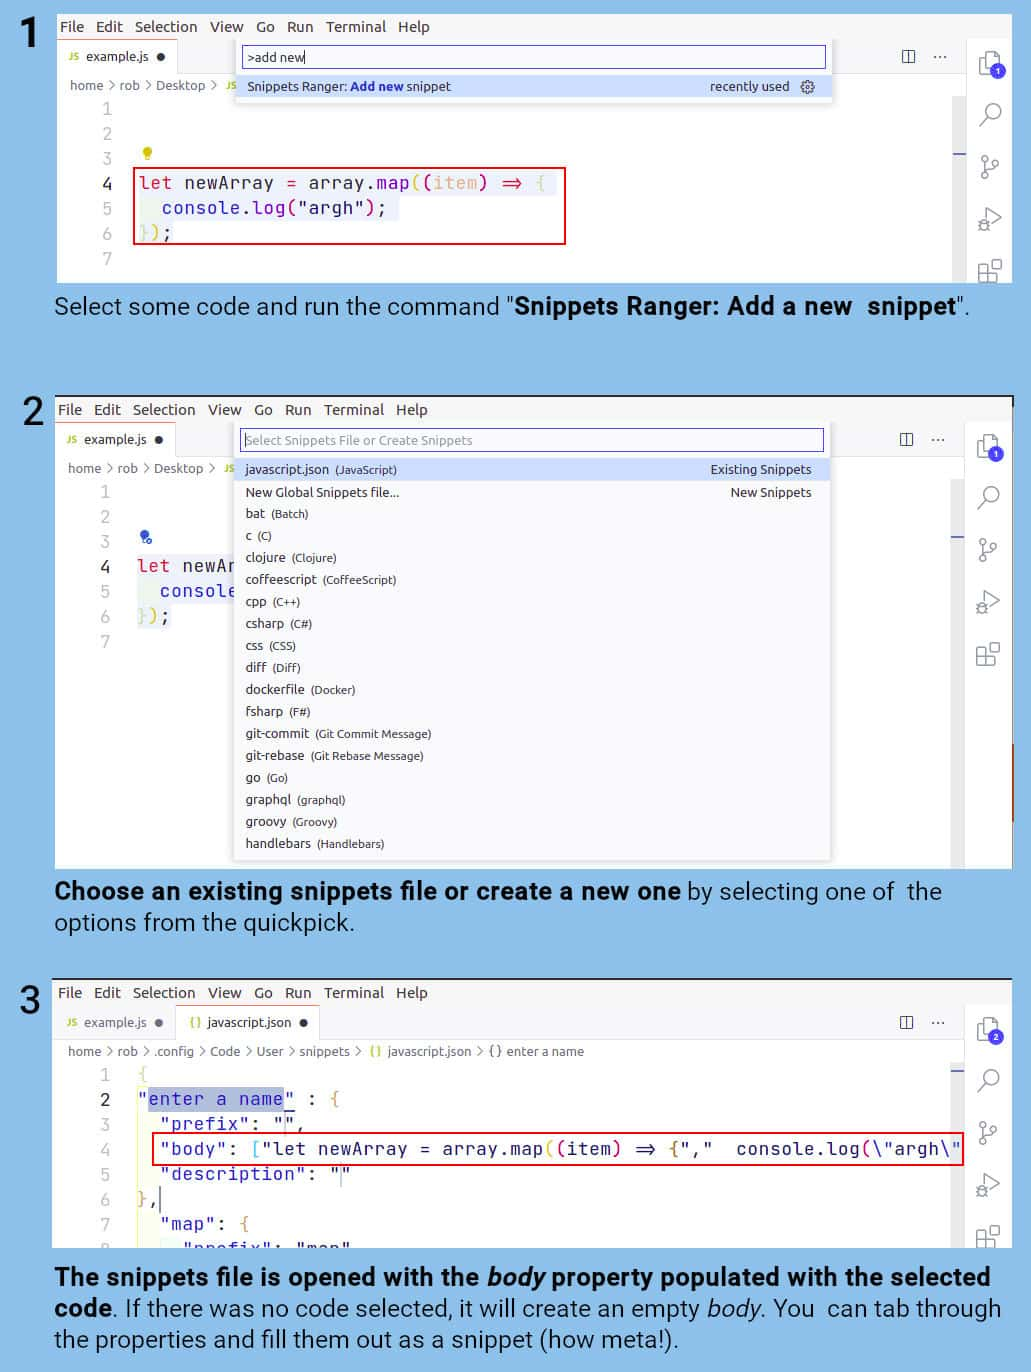
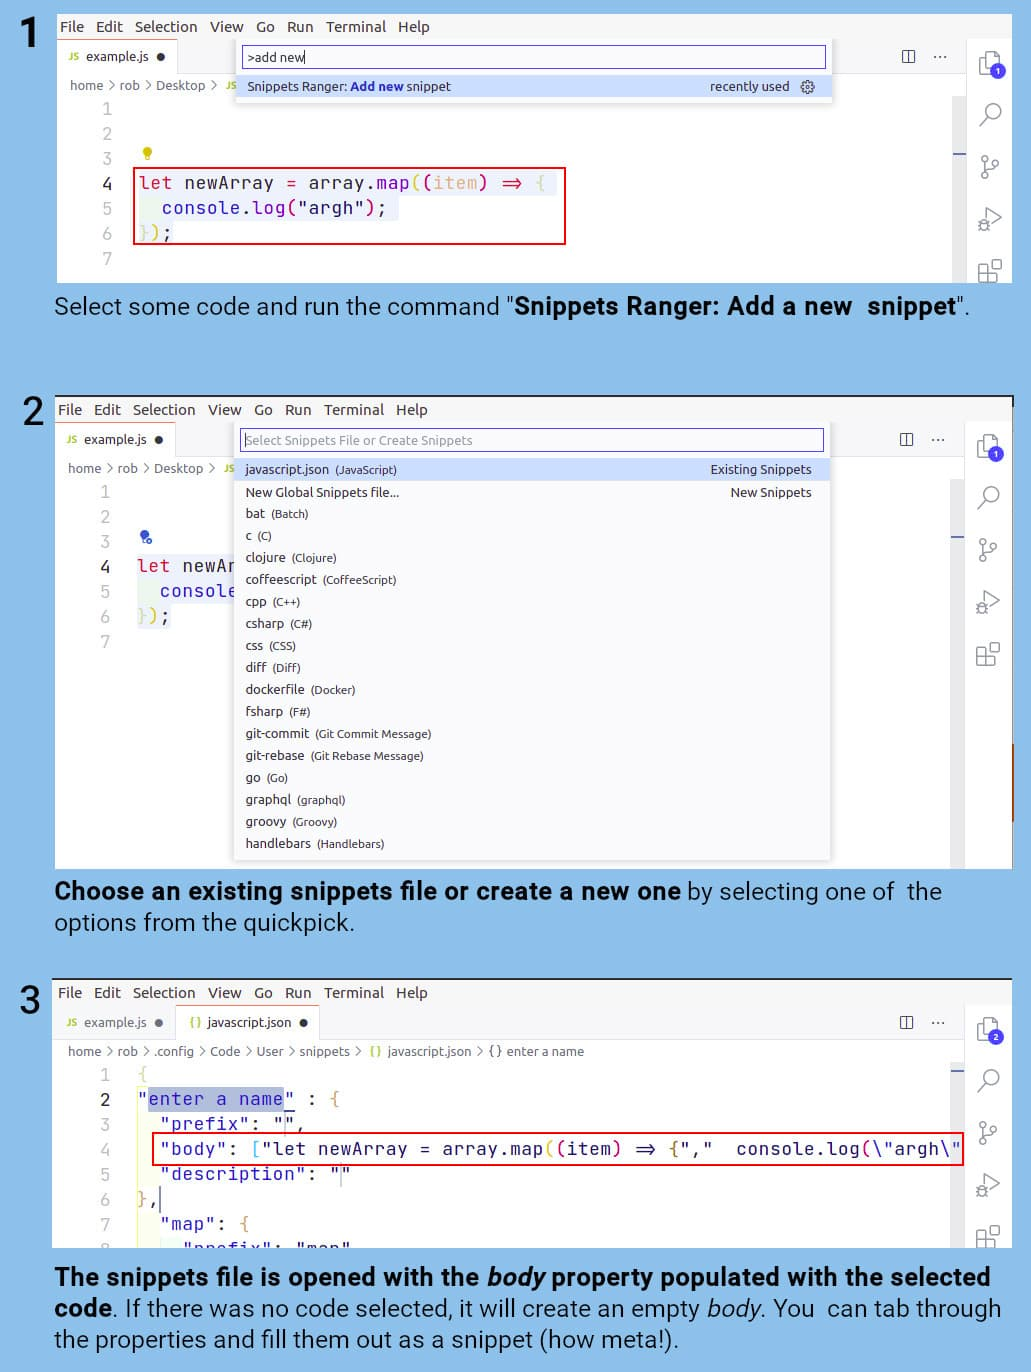
v0.15.0 Fix add-new image. Some edits to readme.

Changed region(s): [[0.7449, 0.3367, 0.7759, 0.3673], [0.3414, 0.3367, 0.3725, 0.3673], [0.2483, 0.5816, 0.2793, 0.6122]]

diff --git a/README.md b/README.md
@@ -7,6 +7,7 @@
 ![Visual Studio Marketplace Downloads](https://img.shields.io/visual-studio-marketplace/d/robole.snippets-ranger?logo=visual-studio-code&color=blue)
 ![Visual Studio Marketplace Installs](https://img.shields.io/visual-studio-marketplace/i/robole.snippets-ranger?logo=visual-studio-code&color=blue)
 ![Built with](https://img.shields.io/static/v1?label=built%20with&message=sarsaparilla%20%26%20javascript&color=af0161)
+[![Coffee](https://img.shields.io/badge/Buy%20me%20a%20coffee-$4-orange?logo=buy-me-a-coffee)](https://www.buymeacoffee.com/robole)
 
 View *all* your snippets in one purty place. Yee-haw!! 🤠💕
 
@@ -24,7 +25,9 @@ The snippets body is **prettily formatted**. 🌻✨
 
 ![view source screenshot](/img/screenshots/edit.png)
 
-**You can go to a specific snippet** with the *Edit* action button. This makes editing a piece of cake.🍰
+**You can go to a specific snippet** with the *Edit* action button.
+
+This makes editing a piece of cake.🍰
 
 ## Commands
 
@@ -44,6 +47,18 @@ To gather and render approx 6000 snippets sourced from 18 different files, it ta
 1. Inside VS Code: Type `Ctrl+P`, write `ext install robole.snippets-ranger` in the text field, and hit `Enter`.
 1. From the Command-line: Run the command `code --install-extension robole.snippets-ranger`.
 1. From the [VS Marketplace](https://marketplace.visualstudio.com/items?itemName=robole.snippets-ranger): Click the _Install_ button.
+
+## Learn more about Snippets
+
+You can read my comprehensive guide on FreeCodeCamp: [Visual Studio Code Snippets – the Definitive VS Code Snippet Guide for Beginners](https://www.freecodecamp.org/news/definitive-guide-to-snippets-visual-studio-code/).
+
+## Contribute
+
+If you have a suggestion or find a bug, please file an issue.
+
+If you are happy with the extension, please star the repo, and leave a review to help others find it. 🌟
+
+You can [buy me a coffee](https://www.buymeacoffee.com/robole) if you would like to support me to make more great open-source software. ☕
 
 ## Icon Attribution
 

diff --git a/CHANGELOG.md b/CHANGELOG.md
@@ -5,6 +5,19 @@ All notable changes to this project are documented in this file.
 The format is based on [Keep a Changelog](https://keepachangelog.com/en/1.0.0/),
 and this project adheres to [Semantic Versioning](https://semver.org/spec/v2.0.0.html).
 
+## [0.15.1] - 2021-04-22
+
+### Changed
+
+- Fix typo in README.md.
+
+## [0.15.0] - 2021-04-22
+
+### Changed
+
+- Improved add-new.jpg.
+- Small edits in README.md.
+
 ## [0.14.0] - 2021-04-22
 
 ### Added
